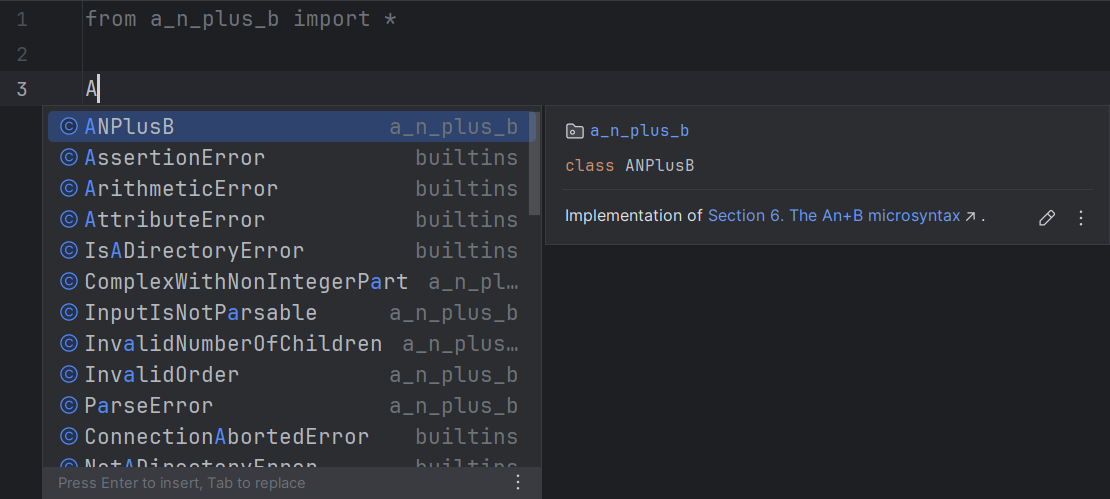
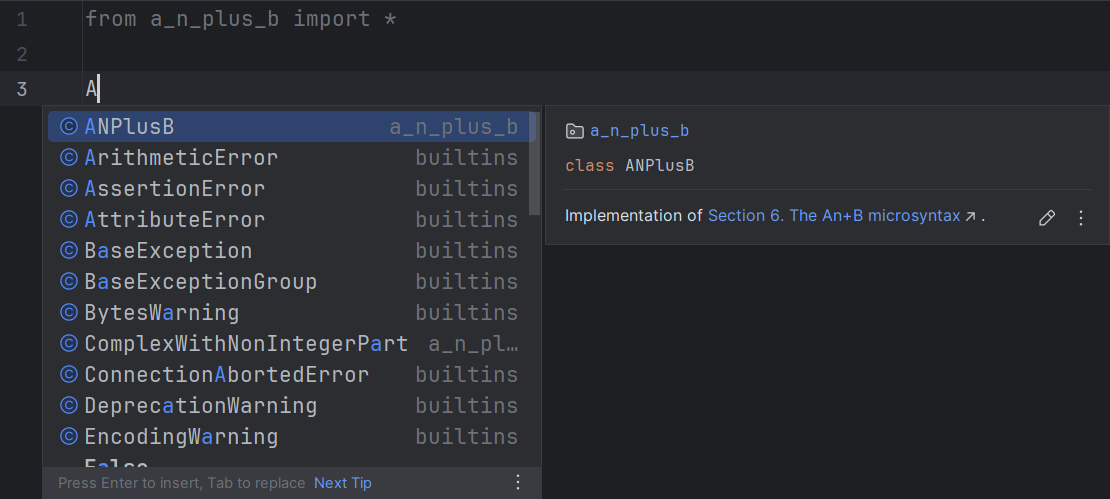
Add documentation for LSP's "Auto-import completions" global option

diff --git a/docs/configurations/lsp.md b/docs/configurations/lsp.md
@@ -84,6 +84,29 @@ Default: `true`
     ![](../assets/lsp-configurations-demo-server-tagged-hints-disabled.png)
 
 
+### Auto-import completions
+
+Uncheck this option to prevent the language server from offering
+completions which, if accepted, will also add a `import` statement
+for that newly introduced symbol.
+
+This corresponds to the `python.analysis.autoImportCompletions` setting.
+
+Default: `true`
+
+=== "Auto-import completions enabled"
+
+    ![](../assets/lsp-configurations-demo-server-completion-support-enabled.png)
+
+=== "Auto-import completions disabled"
+
+    ![](../assets/lsp-configurations-demo-server-auto-import-completions-disabled.png)
+
+=== "Completion support disabled"
+
+    ![](../assets/lsp-configurations-demo-server-completion-support-disabled.png)
+
+
 ### Log level
 
 !!! warning

diff --git a/CHANGELOG_CODE.md b/CHANGELOG_CODE.md
@@ -15,7 +15,7 @@ For user-facing changes, see [`CHANGELOG.md`][_-1].
 ### Added
 
 * [Documentation for LSP-specific settings][30-1] is added.
-  (d8fd3b82, 115fabf6, 519c54d1, HEAD)
+  (d8fd3b82, 115fabf6, 519c54d1, 5608c8da, HEAD)
 * [Message key names][30-2] are slightly changed. (dc1240d4)
 
 
